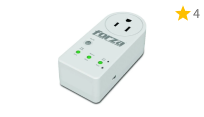
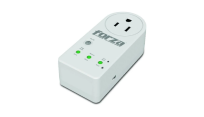
this part of the main completed

Changed region(s): [[0.8529, 0.0513, 1.0, 0.1795]]

diff --git a/index.html b/index.html
@@ -74,22 +74,33 @@
     </div>
   </header>
 
-  <main>
-    <section class="product">
+    <main>
+     <section class="product">
+      <div class="carousel">
       <div class="product-carousel">
-        <div class="carousel">
+        <div class="carousel-img">
           <div class="carousel-item product-banner" style="background-image: url('image/Banner.jpg')"></div>
           <div class="carousel-item product-banner" style="background-image: url('image/Banner.jpg')"></div>
           <div class="carousel-item product-banner" style="background-image: url('image/Banner.jpg')"></div>
         </div>
-        <button class="prev" onclick="moveSlide(-1)">&#10094;</button>
-        <button class="next" onclick="moveSlide(1)">&#10095;</button>
+      <div class="indicators">
+        <span class="dot" onclick="currentSlide(0)"></span>
+        <span class="dot" onclick="currentSlide(1)"></span>
+        <span class="dot" onclick="currentSlide(2)"></span>
       </div>
+     </div>
+     <button class="prev" onclick="moveSlide(-1)">&#10094;</button>
+     <button class="next" onclick="moveSlide(1)">&#10095;</button>
+     </div>
+
       <div class="product-derecha">
         <div class="product-card" >
-          <div class="img-producto">
-            <img src="image/1.jpg" alt="">
+          <div class="img-product">
+            <img src="image/1.png" alt="" class="rating">
+            <span class="star">&#9733;</span>
+            <span class="rating-number">5</span>
           </div>
+
           <div class="sales-products">
             <span class="product-categoria">HOME ELECTRICS</span>
             <span class="product-nombre">Aire acondicionado 12.000 BTU</span>
@@ -102,8 +113,10 @@
           </div>
         </div>
         <div class="product-card" >
-          <div class="img-producto">
-            <img src="image/2.png" alt="">
+          <div class="img-product">
+            <img src="image/2.png" alt=""class="rating">
+            <span class="star">&#9733;</span>
+            <span class="rating-number">4</span>
           </div>
           <div class="sales-products">
             <span class="product-categoria">FORZA</span>
@@ -117,8 +130,10 @@
           </div>
         </div>
         <div class="product-card" >
-          <div class="img-producto">
-            <img src="image/3.png" alt="">
+          <div class="img-product">
+            <img src="image/3.png" alt=""class="rating">
+            <span class="star">&#9733;</span>
+            <span class="rating-number">4</span>
           </div>
           <div class="sales-products">
             <span class="product-categoria">COOKING E</span>
@@ -132,8 +147,10 @@
           </div>
         </div>
         <div class="product-card" >
-          <div class="img-producto">
-            <img src="image/4.png" alt="">
+          <div class="img-product">
+            <img src="image/4.png" alt=""class="rating">
+            <span class="star">&#9733;</span>
+            <span class="rating-number">4</span>
           </div>
           <div class="sales-products">
             <span class="product-categoria">WESTINGHOUSE</span>
@@ -152,4 +169,3 @@
   <script src="index.js"></script>
 </body>
 </html>
-

diff --git a/css/index.css b/css/index.css
@@ -255,6 +255,11 @@ body {
   }
 }
 
+
+.carousel{
+  position:relative;
+}
+
 .product {
 	max-width: 1343px;
   height: 613px;
@@ -265,15 +270,39 @@ body {
 
 }
 
+.rating {
+  display: inline-flex;
+  align-items: center;
+}
+
+.star {
+  width: 16px;
+  height: 15.4px;
+  color:#FDBF00;
+  margin-left: -13px;
+  margin-top: 8px;
+}
+
+.rating-number {  
+  font-size: 14px;
+  font-weight: 400;
+  line-height: 17.6px;
+  margin-left: 2px;
+  margin-top: 9.5px;
+  color: #6C6B6A;
+}
 
 .product-carousel{
   position: relative;
-  width: 773px;
+  max-width: 773px;
   margin: auto;
   overflow: hidden;
+  width: 100%;
+  box-shadow: 5px 5px 15px rgba(0, 0, 0, 0.13);
+  border-radius: 5px; 
 }
 
-.carousel {
+.carousel-img{
   display: flex;
   transition: transform 0.3s ease;
 }
@@ -283,7 +312,6 @@ body {
   height: 563px;
   background-size: cover;
   background-position: center;
-
 }
 
 .prev, 
@@ -303,16 +331,41 @@ body {
 }
 
 .prev {
-  left: 5px;
+  left: -20px;
   color: black;
   border: 2px 0px 0px 0px;
 }
 
 .next {
-  right: 5px;
+  right: -20px;
   color: black;
   border: 2px 0px 0px 0px;
 } 
+
+
+.indicators {
+  position: absolute;
+  bottom: 10px;
+  width: 100%;
+  display: flex;
+  margin-left: 268.65px;
+  margin-bottom: 151.1px;
+}
+
+.dot {
+  height: 8px;
+  width: 16px;
+  margin: 0 5px;
+  background-color: #6C6B6A;
+  border-radius: 4px;
+}
+
+.dot.active {
+  background-color: white;
+  width: 24px;
+  height: 8px;
+  border-radius: 4px;
+}
 
 
 
@@ -321,6 +374,7 @@ body {
 	grid-template-columns: 1fr 1fr;
 	gap:25px;
   margin-left: 39px;
+  
 }
 
 
@@ -334,6 +388,8 @@ body {
 	background-size: cover;
 	background-position: center center;
 	background-color: white;
+  box-shadow: 5px 5px 15px rgba(0, 0, 0, 0.05);
+  border-radius: 8px; 
 }
 
 .product-card .product-categoria{
@@ -383,8 +439,6 @@ color: #363535;
   border-radius: 4px 0px 0px 4px;
 }
 
-.product-img{
- margin-bottom:-2px;
+.img-product{
+ display: flex;
 }
-
-

diff --git a/index.js b/index.js
@@ -13,5 +13,26 @@ function moveSlide(n) {
   }
 
   const offset = -slideIndex * 773; 
-  document.querySelector('.carousel').style.transform = `translateX(${offset}px)`;
+  document.querySelector('.carousel-img').style.transform = `translateX(${offset}px)`;
+
+  updateDots();
 }
+
+/*indicadores*/
+function currentSlide(n) {
+  slideIndex = n;
+  const offset = -slideIndex * 773;
+  document.querySelector('.carousel-img').style.transform = `translateX(${offset}px)`;
+
+  updateDots();
+}
+
+function updateDots() {
+  const dots = document.querySelectorAll('.dot');
+  dots.forEach(dot => dot.classList.remove('active'));
+  dots[slideIndex].classList.add('active');
+}
+
+document.addEventListener('DOMContentLoaded', () => {
+  updateDots();
+});
